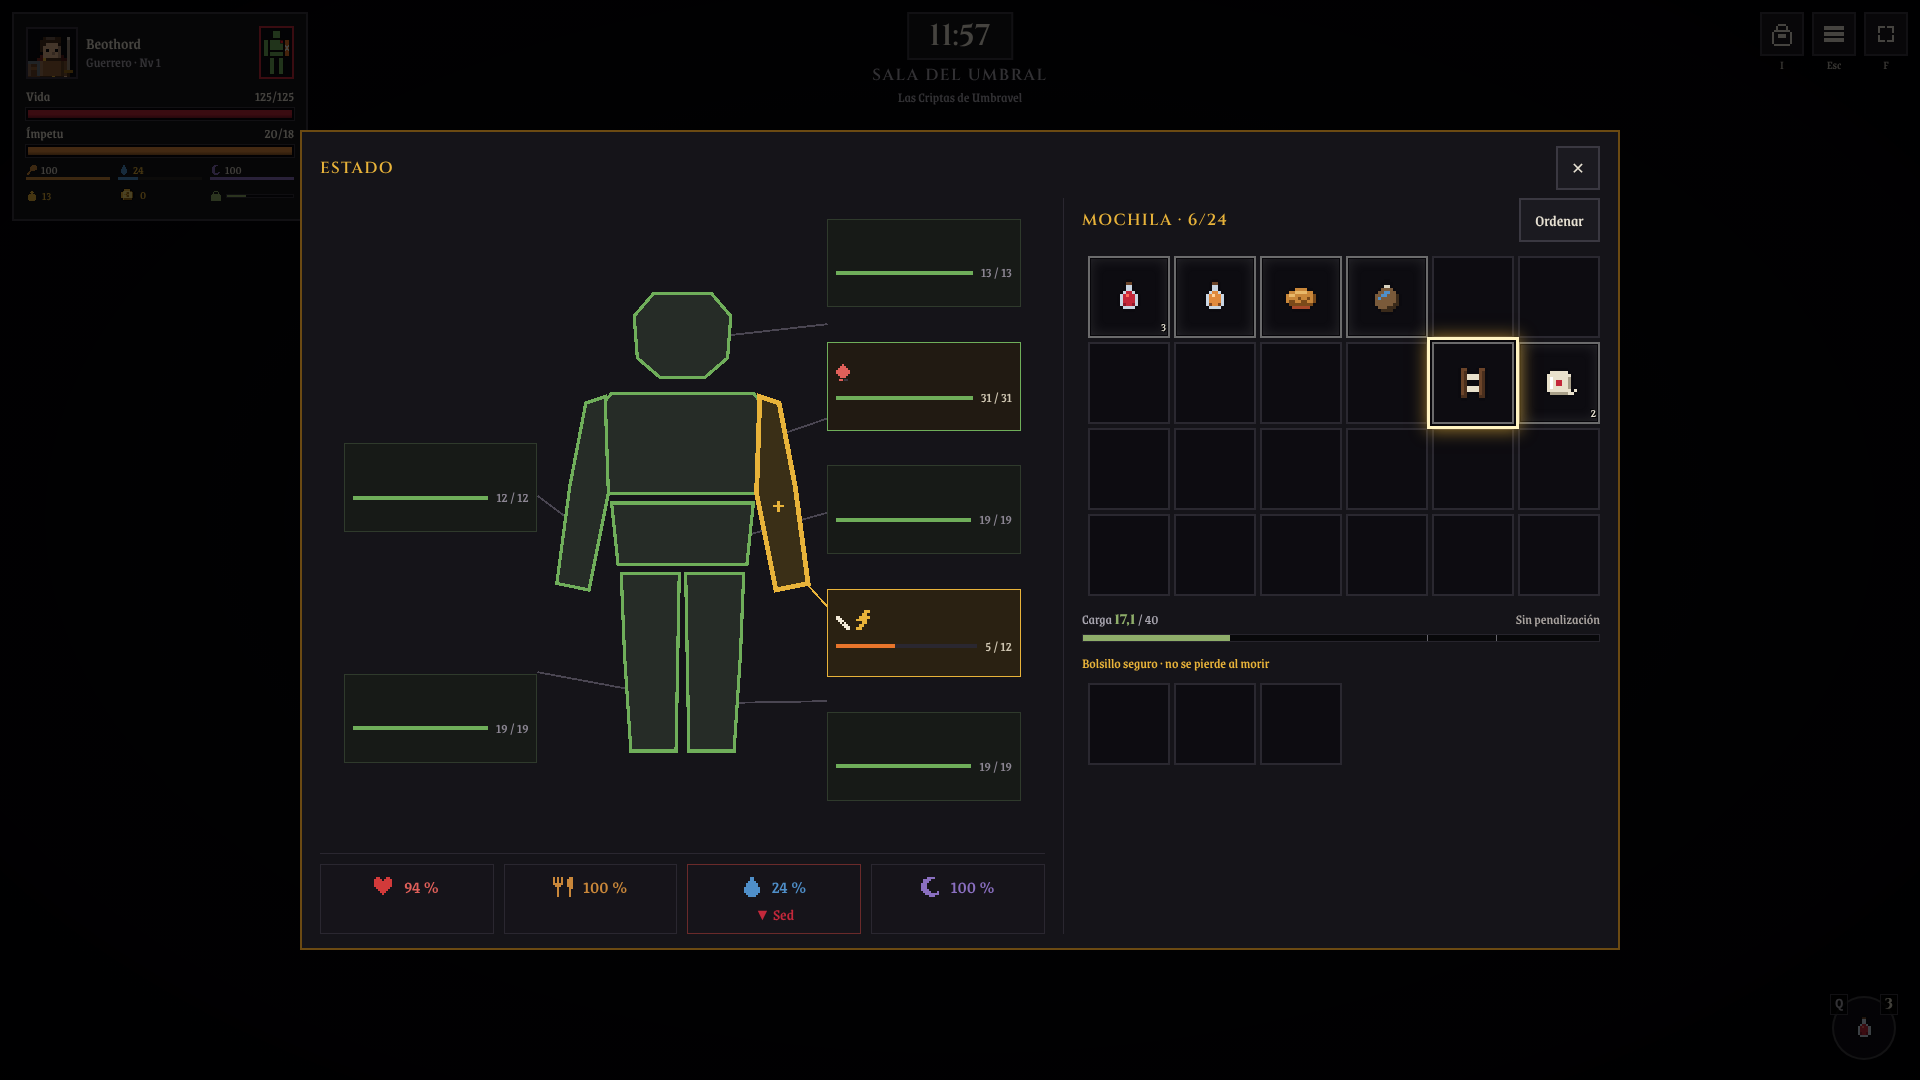
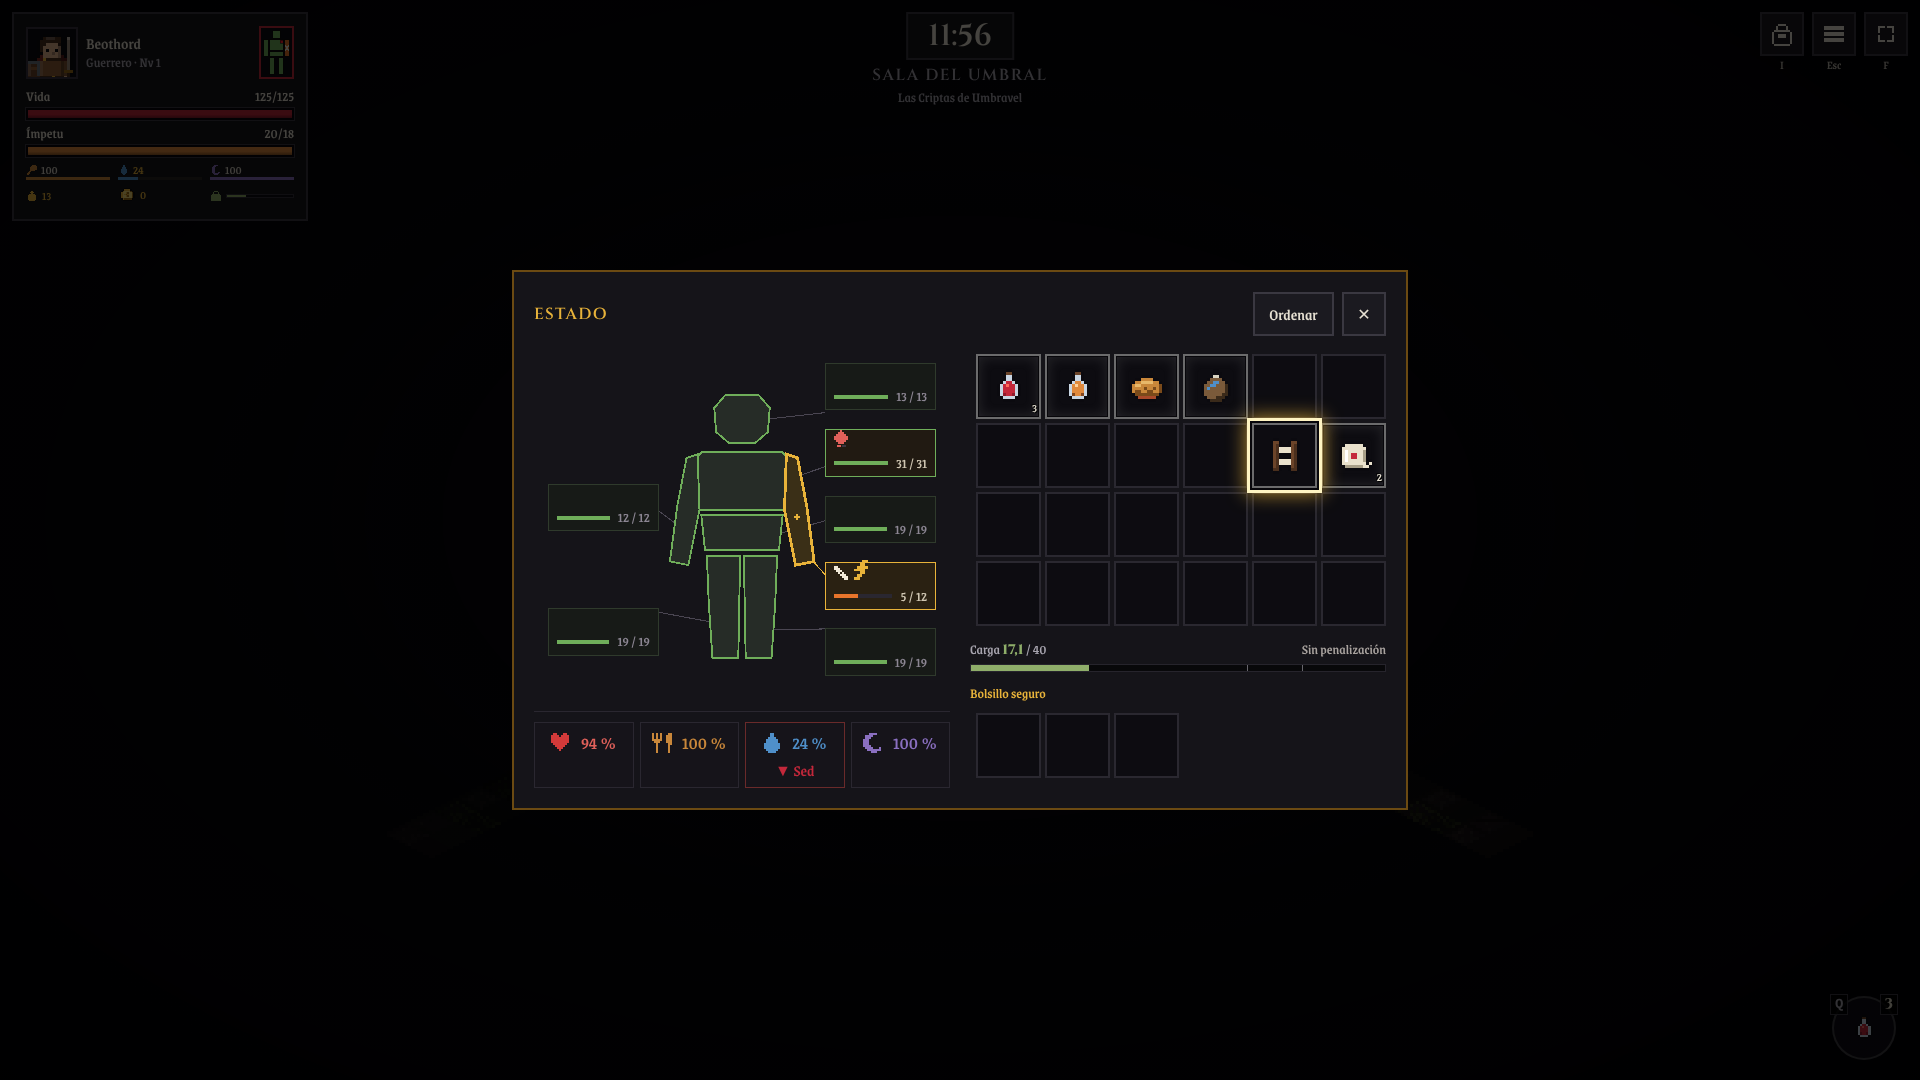
Gravevow (Vesrions 1.0.0.6)

diff --git a/src/game/ui/DungeonScreen.tsx b/src/game/ui/DungeonScreen.tsx
@@ -728,18 +728,9 @@ function BodyModal() {
 function DungeonStatus() {
   const exp = useGame((s) => s.expedition)!;
   const profile = useGame((s) => s.profile)!;
-  const tutorial = useGame((s) => s.tutorial);
   const [sel, setSel] = useState<Loc | null>(null);
   useClearOnDrop(useCallback(() => setSel(null), []));
   const drag = useDrag();
-  // La mochila llena el ancho de su columna (casillas de 44 a 84 px), alineada con «Ordenar» y la barra de carga
-  const bagRef = useRef<HTMLDivElement | null>(null);
-  const [bagW, setBagW] = useState(0);
-  useEffect(() => {
-    const el = bagRef.current; if (!el || typeof ResizeObserver === 'undefined') return;
-    const ro = new ResizeObserver(([e]) => setBagW(e.contentRect.width)); ro.observe(el); return () => ro.disconnect();
-  }, []);
-  const slot = bagW ? Math.max(44, Math.min(84, Math.floor((bagW - 5 * 4 - 2) / 6))) : 60;
   const body = expBody(exp, profile);
   const stackOf = (l: Loc | null) => (l?.kind === 'grid' && (l.container === 'backpack' || l.container === 'pocket') ? exp[l.container][l.index] : null);
   const isCure = (id?: string | null) => !!id && ['treat', 'heal'].includes(getItem(id).use?.kind ?? '') && getItem(id).use?.kind !== undefined && !(getItem(id).use?.kind === 'treat' && (getItem(id).use as { treat?: string }).treat === 'painkiller');
@@ -757,28 +748,18 @@ function DungeonStatus() {
   });
   const n = needsOf(exp.needs);
   return (
-    <div className="absolute inset-0 z-50 flex items-center justify-center bg-black/70 fade-in" data-modal onMouseDown={(e) => e.target === e.currentTarget && actions.closeModal()} data-testid="body-modal">
-      <div className="panel panel-gold dstatus" role="dialog" aria-label="Estado">
-        <div className="dstatus-head"><span className="panel-title text-xl">Estado</span>
-          <button className="btn icon-btn" style={{ minWidth: 44, minHeight: 44 }} onClick={() => actions.closeModal()} aria-label="Cerrar (H o Escape)" title="Cerrar · H" data-testid="body-close">✕</button></div>
-        <div className="dstatus-grid">
-          <div className="min-h-0 flex flex-col" data-testid="intendencia-status">
-            <div className="flex-1 min-h-0 flex items-center justify-center estado-doll"><BodyMap body={body} shown={shown} onPick={(r) => sel && apply(sel, r)} /></div>
-            <StatusNeeds body={body} needs={n} prep={exp.prep ?? null} eta={(k) => nextText(k, n, exp.body)} />
-          </div>
-          <div ref={bagRef} className="min-h-0 overflow-y-auto scroll-thin dstatus-bag" style={{ ['--slot' as string]: `${slot}px`, ['--slot-big' as string]: `${slot}px` }} data-testid="dungeon-status-bag">
-            <div className="flex items-center justify-between gap-2 mb-2"><span className="panel-title">Mochila · {exp.backpack.filter(Boolean).length}/{exp.backpack.length}</span>
-              <button className="btn text-sm" style={{ minHeight: 44 }} onClick={() => { actions.groupGold('backpack'); actions.sortContainer('backpack'); }} title="Agrupa el oro y ordena la mochila">Ordenar</button></div>
-            <GridView grid={exp.backpack} container="backpack" cols={6} equipment={exp.equipment} mode="dungeon" selected={sel} onSelect={(l) => setSel(sel && JSON.stringify(sel) === JSON.stringify(l) ? null : l)}
-              onQuick={(l, st) => (getItem(st.itemId).slot ? actions.quickEquip(l) : getItem(st.itemId).use ? actions.useItem(l) : undefined)} />
-            {!tutorial && <CarryBar className="mt-2" />}
-            <div className="mt-3 text-xs text-gold mb-1">Bolsillo seguro · no se pierde al morir</div>
-            <GridView grid={exp.pocket} container="pocket" cols={3} equipment={exp.equipment} mode="dungeon" selected={sel} onSelect={setSel} onQuick={(l) => actions.quickMove(l, 'backpack')} />
-            {sel && !pick && <div className="mt-3"><ItemActions loc={sel} mode="dungeon" onClear={() => setSel(null)} /></div>}
-          </div>
+    <Modal onClose={() => actions.closeModal()} wide testId="body-modal">
+      <div className="flex items-center justify-between gap-2 mb-3"><h2 className="panel-title text-xl">Estado</h2><div className="flex gap-2">
+        <button className="btn text-sm" style={{ minHeight: 44 }} onClick={() => { actions.groupGold('backpack'); actions.sortContainer('backpack'); }} title="Agrupa el oro y ordena la mochila">Ordenar</button>
+        <button className="btn icon-btn" style={{ minWidth: 44, minHeight: 44 }} onClick={() => actions.closeModal()} aria-label="Cerrar (H o Escape)" title="Cerrar · H" data-testid="body-close">✕</button></div></div>
+      <div className="grid md:grid-cols-2 gap-5">
+        <div className="flex flex-col dstatus-left" data-testid="intendencia-status">
+          <div className="flex-1 min-h-0 flex items-center justify-center estado-doll"><BodyMap body={body} shown={shown} onPick={(r) => sel && apply(sel, r)} /></div>
+          <StatusNeeds body={body} needs={n} prep={exp.prep ?? null} eta={(k) => nextText(k, n, exp.body)} />
         </div>
+        <div data-testid="dungeon-status-bag"><InvBagColumn sel={sel} setSel={(l) => setSel(l && sel && JSON.stringify(sel) === JSON.stringify(l) ? null : l)} clear={() => setSel(null)} noActions={!!pick} /></div>
       </div>
-    </div>
+    </Modal>
   );
 }
 
@@ -898,26 +879,42 @@ function DungeonInventory() {
   }
   return (
     <Modal onClose={() => actions.closeModal()} wide testId="dungeon-inventory">
-      <div className="flex items-center justify-between mb-3"><h2 className="panel-title text-xl">Inventario</h2><div className="flex gap-2">
-        <button className="btn text-sm" style={{ minHeight: 44 }} onClick={() => { actions.groupGold('backpack'); actions.sortContainer('backpack'); }} title="Agrupa el oro y ordena la mochila">Ordenar</button></div></div>
+      <div className="flex items-center justify-between gap-2 mb-3"><h2 className="panel-title text-xl">Inventario</h2><div className="flex gap-2">
+        <button className="btn text-sm" style={{ minHeight: 44 }} onClick={() => { actions.groupGold('backpack'); actions.sortContainer('backpack'); }} title="Agrupa el oro y ordena la mochila">Ordenar</button>
+        <button className="btn icon-btn" style={{ minWidth: 44, minHeight: 44 }} onClick={() => actions.closeModal()} aria-label="Cerrar (I o Escape)" title="Cerrar · I" data-testid="btn-close-inventory">✕</button></div></div>
       <div className="grid md:grid-cols-2 gap-5">
         <div className="space-y-4">
           <EquipmentView equipment={s.expedition.equipment} selected={sel} onSelect={setSel} mode="dungeon" portrait={<PlayerSprite scale={5} />} />
           <StatsList stats={stats} resourceName={CLASSES[ch.classId].resourceName} />
         </div>
-        <div>
-          <GridView grid={s.expedition.backpack} container="backpack" cols={6} equipment={s.expedition.equipment} mode="dungeon" selected={sel} onSelect={setSel}
-            onQuick={(l, st) => (getItem(st.itemId).slot ? actions.quickEquip(l) : getItem(st.itemId).use ? actions.useItem(l) : undefined)} />
-          {!s.tutorial && <CarryBar className="mt-2" />}
-          <div className="mt-3">
-            <div className="text-xs text-gold mb-1">Bolsillo seguro · no se pierde al morir{gridGold(s.expedition.pocket) > 0 ? ` · oro a salvo: ${gridGold(s.expedition.pocket)}` : ''}</div>
-            <GridView grid={s.expedition.pocket} container="pocket" cols={3} equipment={s.expedition.equipment} mode="dungeon" selected={sel} onSelect={setSel} onQuick={(l) => actions.quickMove(l, 'backpack')} />
-          </div>
-          <div className="mt-4"><ItemActions loc={sel} mode="dungeon" onClear={clear} /></div>
-        </div>
+        <InvBagColumn sel={sel} setSel={setSel} clear={clear} />
       </div>
-      <button className="btn mt-4" onClick={() => actions.closeModal()}>Cerrar <kbd className="opacity-60">I</kbd></button>
     </Modal>
+  );
+}
+
+/** Columna de la mochila del inventario (escritorio): casillas que llenan el ancho, alineadas con la barra de carga. */
+function InvBagColumn({ sel, setSel, clear, noActions }: { sel: Loc | null; setSel: (l: Loc | null) => void; clear: () => void; /** Estado: con una cura elegida no hacen falta sus acciones. */ noActions?: boolean }) {
+  const exp = useGame((x) => x.expedition)!;
+  const tutorial = useGame((x) => x.tutorial);
+  const ref = useRef<HTMLDivElement | null>(null);
+  const [w, setW] = useState(0);
+  useEffect(() => {
+    const el = ref.current; if (!el || typeof ResizeObserver === 'undefined') return;
+    const ro = new ResizeObserver(([e]) => setW(e.contentRect.width)); ro.observe(el); return () => ro.disconnect();
+  }, []);
+  const slot = w ? Math.max(44, Math.min(84, Math.floor((w - 5 * 4 - 2) / 6))) : 60;
+  return (
+    <div ref={ref} style={{ ['--slot' as string]: `${slot}px`, ['--slot-big' as string]: `${slot}px` }}>
+      <GridView grid={exp.backpack} container="backpack" cols={6} equipment={exp.equipment} mode="dungeon" selected={sel} onSelect={setSel}
+        onQuick={(l, st) => (getItem(st.itemId).slot ? actions.quickEquip(l) : getItem(st.itemId).use ? actions.useItem(l) : undefined)} />
+      {!tutorial && <CarryBar className="mt-2" />}
+      <div className="mt-3">
+        <div className="text-xs text-gold mb-1">Bolsillo seguro</div>
+        <GridView grid={exp.pocket} container="pocket" cols={3} equipment={exp.equipment} mode="dungeon" selected={sel} onSelect={setSel} onQuick={(l) => actions.quickMove(l, 'backpack')} />
+      </div>
+      {sel && !noActions && <div className="mt-4"><ItemActions loc={sel} mode="dungeon" onClear={clear} /></div>}
+    </div>
   );
 }
 

diff --git a/src/game/game.css b/src/game/game.css
@@ -1815,7 +1815,4 @@ div.hb-acard{cursor:default}
 .estado-phone .estado-vesper{padding:3px 6px;gap:8px;margin-bottom:2px}.estado-phone .estado-vesper-bust img{transform:none}
 
 /* ESTADO en la mazmorra (escritorio, 27/11) */
-.dstatus{width:min(1320px,94vw);height:min(820px,90vh);padding:14px 18px;display:flex;flex-direction:column;gap:8px}
-.dstatus-head{display:flex;align-items:center;justify-content:space-between}
-.dstatus-grid{flex:1;min-height:0;display:grid;grid-template-columns:minmax(0,1.35fr) minmax(0,1fr);gap:18px}
-.dstatus-bag{border-left:1px solid #2a2730;padding-left:18px}
+.dstatus-left{min-height:440px}.dstatus-left .estado-need-row{gap:6px}.dstatus-left .estado-need{padding:6px 4px}
